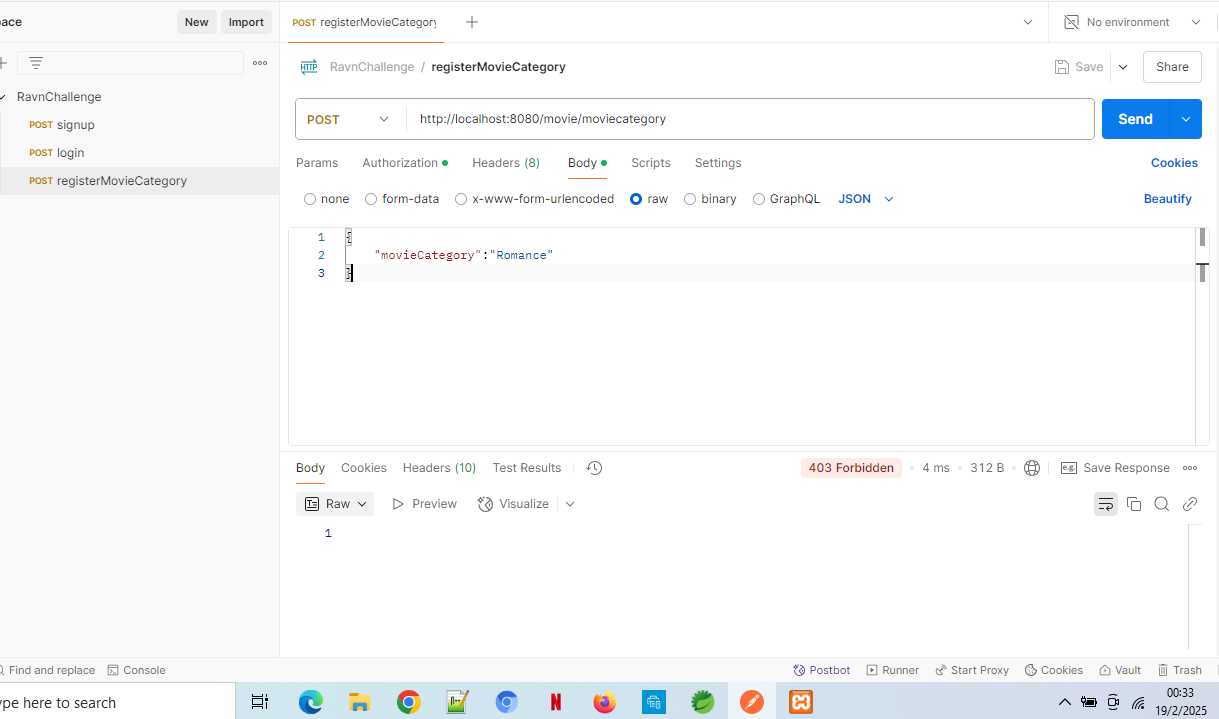
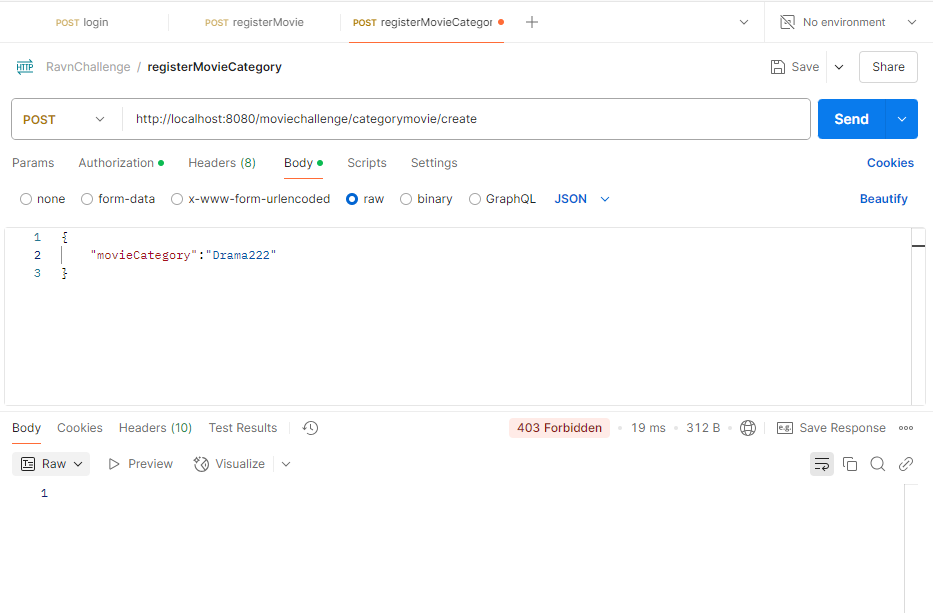
Adding context path, saving movies, saving moviecats with new url, DB updated and ss updated

diff --git a/src/main/java/com/ravn/challenge/ravn_challenge/entities/Movie.java b/src/main/java/com/ravn/challenge/ravn_challenge/entities/Movie.java
@@ -1,0 +1,145 @@
+package com.ravn.challenge.ravn_challenge.entities;
+
+import java.util.Date;
+import javax.persistence.Column;
+import javax.persistence.Entity;
+import javax.persistence.GeneratedValue;
+import javax.persistence.GenerationType;
+import javax.persistence.Id;
+import javax.persistence.JoinColumn;
+import javax.persistence.Lob;
+import javax.persistence.OneToOne;
+import javax.persistence.Table;
+
+@Table(name = "movie")
+@Entity
+public class Movie {
+
+	@Id
+	@GeneratedValue(strategy = GenerationType.AUTO)
+	@Column(nullable = false, name = "id_movie")
+	private Integer Id;
+
+	@Column(nullable = false)
+	private String name;
+
+	@Column(nullable = true, name = "release_year")
+	private Integer releaseYear;
+
+	@Column(nullable = true)
+	private String synopsis;
+
+	@Lob
+	@Column(nullable = true, columnDefinition = "MEDIUMBLOB", name = "image_poster")
+	private String image;
+
+	@OneToOne
+	@JoinColumn(name = "id_category", nullable = false)
+	private MovieCategory movieCategory;
+
+	@OneToOne
+	@JoinColumn(name = "id_user", nullable = false)
+	private User idUser;
+
+	@Column(name = "created_date", nullable = false)
+	private Date createdDate;
+
+	@OneToOne
+	@JoinColumn(name = "user_rate", nullable = true)
+	private User userRate;
+
+	@Column(name = "date_rate", nullable = true)
+	private Date dateRate;
+
+	@Column(nullable = true)
+	private String rate;
+
+	public Integer getId() {
+		return Id;
+	}
+
+	public void setId(Integer id) {
+		Id = id;
+	}
+
+	public String getName() {
+		return name;
+	}
+
+	public void setName(String name) {
+		this.name = name;
+	}
+
+	public Integer getReleaseYear() {
+		return releaseYear;
+	}
+
+	public void setReleaseYear(Integer releaseYear) {
+		this.releaseYear = releaseYear;
+	}
+
+	public String getSynopsis() {
+		return synopsis;
+	}
+
+	public void setSynopsis(String synopsis) {
+		this.synopsis = synopsis;
+	}
+
+	public String getImage() {
+		return image;
+	}
+
+	public void setImage(String image) {
+		this.image = image;
+	}
+
+	public MovieCategory getMovieCategory() {
+		return movieCategory;
+	}
+
+	public void setMovieCategory(MovieCategory movieCategory) {
+		this.movieCategory = movieCategory;
+	}
+
+	public User getIdUser() {
+		return idUser;
+	}
+
+	public void setIdUser(User idUser) {
+		this.idUser = idUser;
+	}
+
+	public Date getCreatedDate() {
+		return createdDate;
+	}
+
+	public void setCreatedDate(Date createdDate) {
+		this.createdDate = createdDate;
+	}
+
+	public User getUserRate() {
+		return userRate;
+	}
+
+	public void setUserRate(User userRate) {
+		this.userRate = userRate;
+	}
+
+	public Date getDateRate() {
+		return dateRate;
+	}
+
+	public void setDateRate(Date dateRate) {
+		this.dateRate = dateRate;
+	}
+
+	public String getRate() {
+		return rate;
+	}
+
+	public void setRate(String rate) {
+		this.rate = rate;
+	}
+
+}

diff --git a/src/main/java/com/ravn/challenge/ravn_challenge/controller/MovieCatController.java b/src/main/java/com/ravn/challenge/ravn_challenge/controller/MovieCatController.java
@@ -5,45 +5,41 @@ import org.springframework.web.bind.annotation.PostMapping;
 import org.springframework.web.bind.annotation.RequestBody;
 import org.springframework.web.bind.annotation.RequestMapping;
 import org.springframework.web.bind.annotation.RestController;
+
 import com.ravn.challenge.ravn_challenge.dto.MovieCategoryDTO;
-import com.ravn.challenge.ravn_challenge.dto.MovieDTO;
-import com.ravn.challenge.ravn_challenge.entities.Movie;
 import com.ravn.challenge.ravn_challenge.entities.MovieCategory;
 import com.ravn.challenge.ravn_challenge.entities.User;
 import com.ravn.challenge.ravn_challenge.service.impl.AuthenticationService;
 import com.ravn.challenge.ravn_challenge.service.impl.MovieCategoryService;
-import com.ravn.challenge.ravn_challenge.service.impl.MovieService;
 
 import lombok.extern.slf4j.Slf4j;
 
-@RequestMapping("/movie")
+@RequestMapping("/categorymovie")
 @RestController
 @Slf4j
-public class MoviesController {
+public class MovieCatController {
 	
-	private final MovieService movieService;
-
 	private final MovieCategoryService movieCatService;
-
+	
 	private final AuthenticationService authenticationService;
-
-	public MoviesController(MovieService movieService,MovieCategoryService movieCatService, AuthenticationService authenticationService) {
-		this.movieService = movieService;
-		this.movieCatService = movieCatService;
+	
+	
+	public MovieCatController(MovieCategoryService movieCatService,AuthenticationService authenticationService) {
 		this.authenticationService = authenticationService;
-	}	
+		this.movieCatService = movieCatService;
+	}
+	
 	
 	@PostMapping("/create")
-	public ResponseEntity<Movie> registerMovie(@RequestBody MovieDTO input){
-		User currentUser = authenticationService.checkIfUserIsAdmin();		
+    public ResponseEntity<MovieCategory> registerMovieCat(@RequestBody MovieCategoryDTO input) {
 		
+		User currentUser = authenticationService.checkIfUserIsAdmin();
 		if(currentUser != null) {
-		Movie newMovie = movieService.saveMovieOnDB(input,currentUser);
-		return ResponseEntity.ok(newMovie);
+			MovieCategory saveMovCat = movieCatService.saveOnDB(input);
+			return ResponseEntity.ok(saveMovCat);
 		}else {
 			return ResponseEntity.status(403).body(null);
 		}
-		
 	}
 
 }

diff --git a/src/main/java/com/ravn/challenge/ravn_challenge/service/impl/MovieService.java b/src/main/java/com/ravn/challenge/ravn_challenge/service/impl/MovieService.java
@@ -1,0 +1,35 @@
+package com.ravn.challenge.ravn_challenge.service.impl;
+
+
+import java.util.Date;
+import org.springframework.stereotype.Service;
+import com.ravn.challenge.ravn_challenge.dto.MovieDTO;
+import com.ravn.challenge.ravn_challenge.entities.Movie;
+import com.ravn.challenge.ravn_challenge.entities.MovieCategory;
+import com.ravn.challenge.ravn_challenge.entities.User;
+import com.ravn.challenge.ravn_challenge.repositories.MovieRepository;
+
+@Service
+public class MovieService {
+
+	private final MovieRepository movieRepository;
+	
+	public MovieService(MovieRepository movieRepository) {
+		this.movieRepository = movieRepository;		
+	}
+	
+	public Movie saveMovieOnDB(MovieDTO input,User currentUser) {
+		Movie newMovie = new Movie();
+		newMovie.setName(input.getName());
+		newMovie.setReleaseYear(input.getReleaseYear());
+		newMovie.setSynopsis(input.getSynopsis());
+		newMovie.setImage(null);
+		MovieCategory movCat = new MovieCategory();
+		movCat.setId(input.getIdCategory());
+		newMovie.setMovieCategory(movCat);		
+		newMovie.setIdUser(currentUser);		
+		newMovie.setCreatedDate(new Date());
+		
+		return movieRepository.save(newMovie);
+	}
+}

diff --git a/src/main/java/com/ravn/challenge/ravn_challenge/dto/MovieDTO.java b/src/main/java/com/ravn/challenge/ravn_challenge/dto/MovieDTO.java
@@ -1,0 +1,57 @@
+package com.ravn.challenge.ravn_challenge.dto;
+
+public class MovieDTO {
+	
+	private String name;
+	
+	private Integer releaseYear;
+	
+	private String synopsis;
+	
+	private String image;
+	
+	private Integer idCategory;	
+	
+
+	public String getName() {
+		return name;
+	}
+
+	public void setName(String name) {
+		this.name = name;
+	}
+
+	public Integer getReleaseYear() {
+		return releaseYear;
+	}
+
+	public void setReleaseYear(Integer releaseYear) {
+		this.releaseYear = releaseYear;
+	}
+
+	public String getSynopsis() {
+		return synopsis;
+	}
+
+	public void setSynopsis(String synopsis) {
+		this.synopsis = synopsis;
+	}
+
+	public String getImage() {
+		return image;
+	}
+
+	public void setImage(String image) {
+		this.image = image;
+	}
+
+	public Integer getIdCategory() {
+		return idCategory;
+	}
+
+	public void setIdCategory(Integer idCategory) {
+		this.idCategory = idCategory;
+	}
+	
+
+}

diff --git a/src/main/java/com/ravn/challenge/ravn_challenge/service/impl/AuthenticationService.java b/src/main/java/com/ravn/challenge/ravn_challenge/service/impl/AuthenticationService.java
@@ -49,7 +49,7 @@ public class AuthenticationService {
 		return userRepository.findByUsername(input.getUsername()).orElseThrow();
 	}
 	
-	public boolean checkIfUserIsAdmin() {
+	public User checkIfUserIsAdmin() {
 		Authentication authentication = SecurityContextHolder.getContext().getAuthentication();
 
         User currentUser = (User) authentication.getPrincipal();
@@ -57,9 +57,9 @@ public class AuthenticationService {
         rol.setId(1);//admin this needs to be changed later
         
         if(currentUser.getRol().getId().equals(rol.getId()))
-        	return true;
+        	return currentUser;
         else 
-        	return false;
+        	return null;
 	}
 
 }

diff --git a/src/main/java/com/ravn/challenge/ravn_challenge/repositories/MovieRepository.java b/src/main/java/com/ravn/challenge/ravn_challenge/repositories/MovieRepository.java
@@ -1,0 +1,18 @@
+package com.ravn.challenge.ravn_challenge.repositories;
+
+import java.util.Optional;
+
+import org.springframework.data.repository.CrudRepository;
+import org.springframework.stereotype.Repository;
+import com.ravn.challenge.ravn_challenge.entities.Movie;
+
+
+
+@Repository
+public interface MovieRepository extends CrudRepository<Movie, Integer>{
+	
+	Optional<Movie> findById(Integer id);
+	
+	//Optional<Movie> findByNameAndSynopsis(String name, String synopsis);
+
+}

diff --git a/src/main/java/com/ravn/challenge/ravn_challenge/entities/User.java b/src/main/java/com/ravn/challenge/ravn_challenge/entities/User.java
@@ -38,7 +38,7 @@ public class User implements UserDetails{
     private String password;
 	
 	@OneToOne
-    @JoinColumn(name = "id_rol")	
+    @JoinColumn(name = "id_rol",nullable = false)	
 	private Rol rol;
 	
 	@Override
